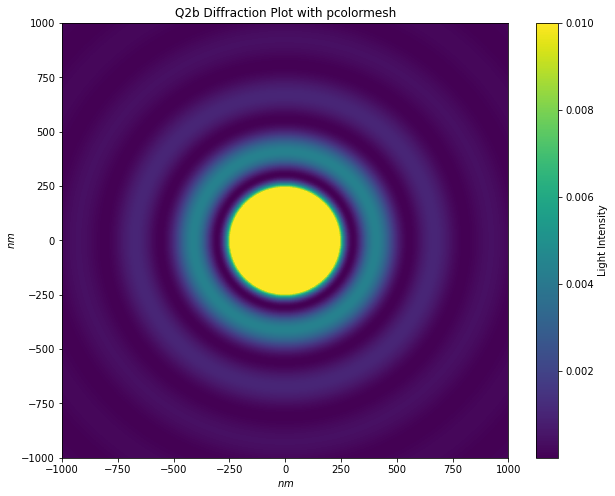
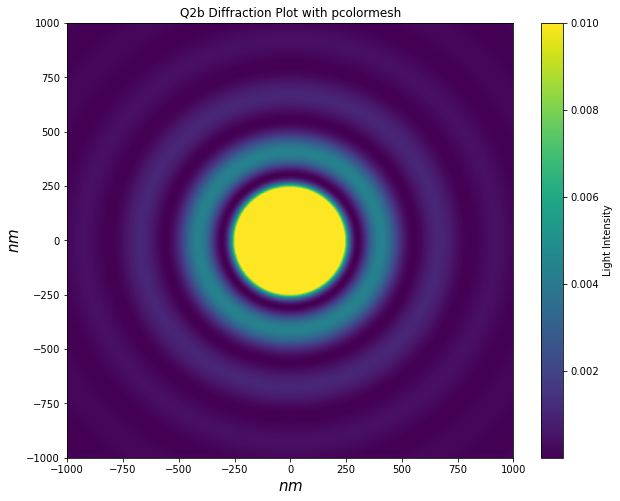
imshow added

diff --git a/Lab2/nazeda/Q2/Q2b/Lab2_Q2b.py b/Lab2/nazeda/Q2/Q2b/Lab2_Q2b.py
@@ -11,7 +11,7 @@ from matplotlib import pyplot as plt
 from Lab2_Q2b_function import *
 
 ######################## b i #################################################
-x = np.arange(0, 20, 0.1)
+x = np.arange(0, 20, 0.1)   #plot from 0 to 20 with 0.1 interval
 y0 = []                     #initiate arraysfor J0, J1, J2
 y1 = []
 y2 = []
@@ -37,14 +37,16 @@ plt.title('Q2b, plot of $J_0$, $J_1$, and $J_2$, textbood Ex5.4(a)')
 ##############################################################################
 
 ######################## b ii ################################################
-x = np.arange(0, 20, 0.1)
+x = np.arange(0, 0.25, 0.001)
 y0 = []
 y1 = []
+
 
 for i in x:                 #Calculate values for J0, with my own bessel func.
     y0.append(J(0, i))
 
-#Plot against scipy.special.jv(0,x)
+
+#Plot with scipy.special.jv(0,x)
 plt.figure(2)
 plt.plot(x, special.jv(0, x), label = 'scipy.special.jv(0,x)') #calculate & plot with scipy special func.
 plt.plot(x, y0, label = 'My function J(0,x)')
@@ -57,7 +59,7 @@ plt.show()
 for i in x:                 #Calculate values for J1, with my own bessel func.
     y1.append(J(1, i))
 
-#Plot against scipy.special.jv(1,x)
+#Plot with scipy.special.jv(1,x)
 plt.figure(3)
 plt.plot(x, special.jv(1, x), label = 'scipy.special.jv(1,x)')  #calculate & plot with scipy special func.
 plt.plot(x, y1, label = 'My function J(1,x)')
@@ -65,7 +67,15 @@ plt.xlabel('$x$')
 plt.ylabel('$J_1(x)$')
 plt.legend()
 plt.title('Comparison between my bessel and scipy.special.jv, for $J_1(x)$')
-plt.show()    
+plt.show()
+
+#Calculate the actual difference between my bessel and scipy.special.jv
+print('Difference between my Bessel and scipy.special.jv with m=0, x=0:', 
+      J(0,0) - special.jv(0,0))
+print('Difference between my Bessel and scipy.special.jv with m=2, x=2:', 
+      J(2,2) - special.jv(2,2))
+print('Difference between my Bessel and scipy.special.jv with m=1, x=2.5:', 
+      J(1,2.5) - special.jv(1,2.5))
 ##############################################################################
 
 
@@ -90,13 +100,23 @@ for i in range(0,2001):
                                                 #because of symmetry. tones of times saved!
         
 
-
+#plot with pcolormesh()
 plt.figure(figsize = (10,8))  
 x = np.arange(-1000, 1001, 1)       #create axies for the plot
 y = np.arange(-1000, 1001, 1)    
-c = plt.pcolormesh(x, y, P, vmax = 0.01, shading='nearest')    #set max intensity at 0.01 for best sensitivity
-plt.colorbar(c, label = 'Light Intensity')
-plt.xlabel('$nm$')
-plt.ylabel('$nm$')
+plt.pcolormesh(x, y, P, vmax = 0.01, shading='nearest')    #set max intensity at 0.01 for best sensitivity
+plt.colorbar(label = 'Light Intensity')
+plt.xlabel('$nm$', fontsize = 15)
+plt.ylabel('$nm$', fontsize = 15)
 plt.title('Q2b Diffraction Plot with pcolormesh')
+plt.show()
+
+#plot with imshow()
+plt.figure(figsize = (10,8))
+plt.imshow(P, vmax = 0.01, extent = [-1000 , 1000, -1000 , 1000], cmap = 'inferno')
+plt.colorbar(label = 'Light Intensity')
+plt.title('Q2b Diffraction Plot with imshow')
+plt.xlabel('$nm$', fontsize = 15)
+plt.ylabel('$nm$', fontsize = 15)
+plt.title('Q2b Diffraction Plot with imshow')
 plt.show()

diff --git a/Lab2/nazeda/Q2/Q2b/Lab2_Q2b_function.py b/Lab2/nazeda/Q2/Q2b/Lab2_Q2b_function.py
@@ -6,7 +6,7 @@ Created on Mon Sep 21 19:51:53 2020
 """
 import numpy as np
 import scipy as sp
-from scipy import special
+#from scipy import special
 
 ######Simpsons method###########
 def Simp(f, m, x, n):       #for bessel function, a = 0 and b = pi
